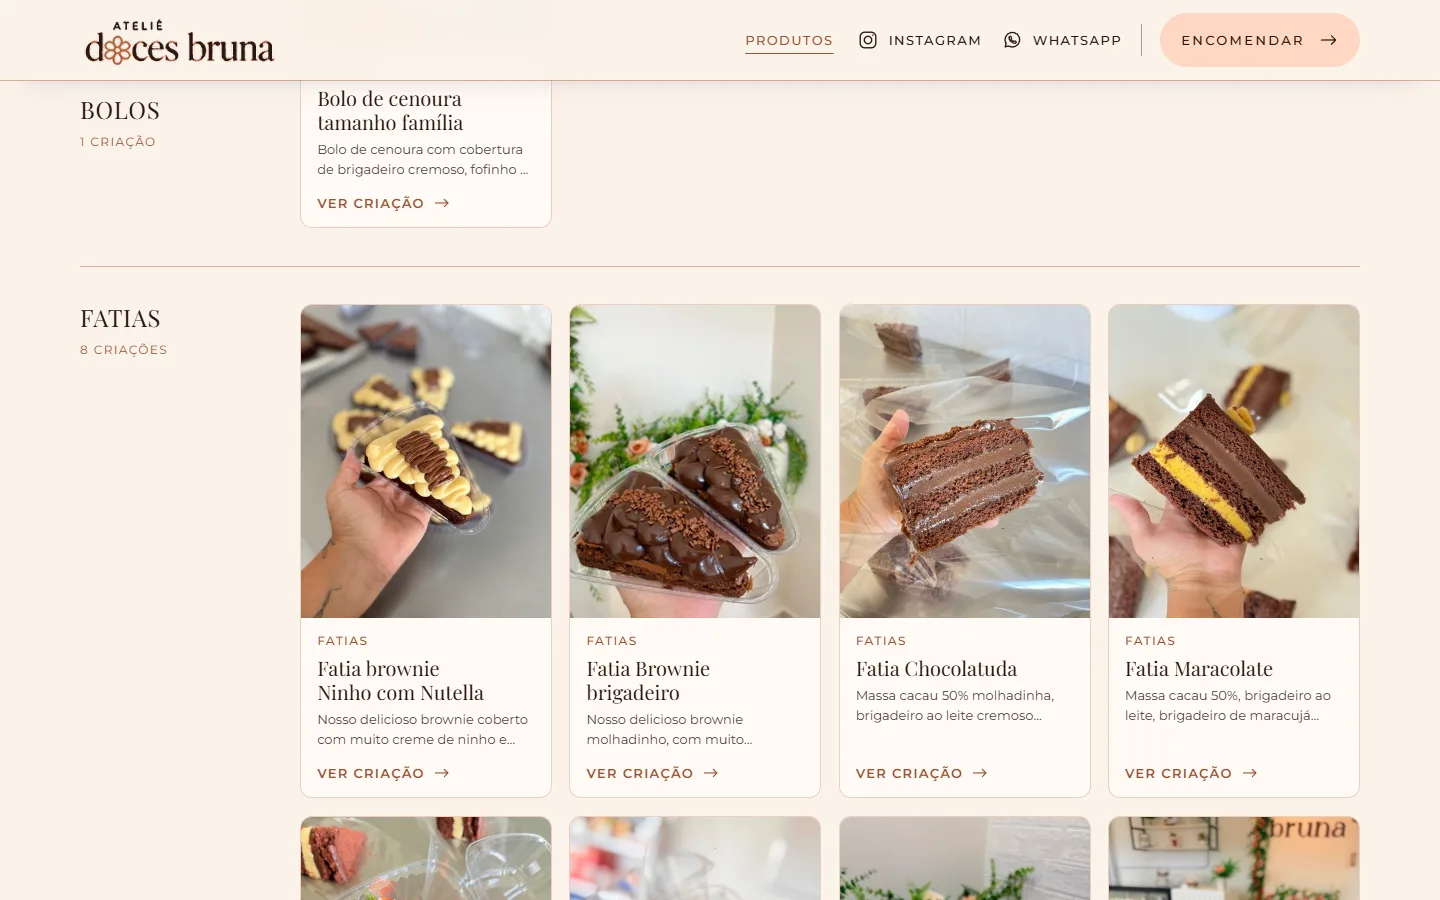
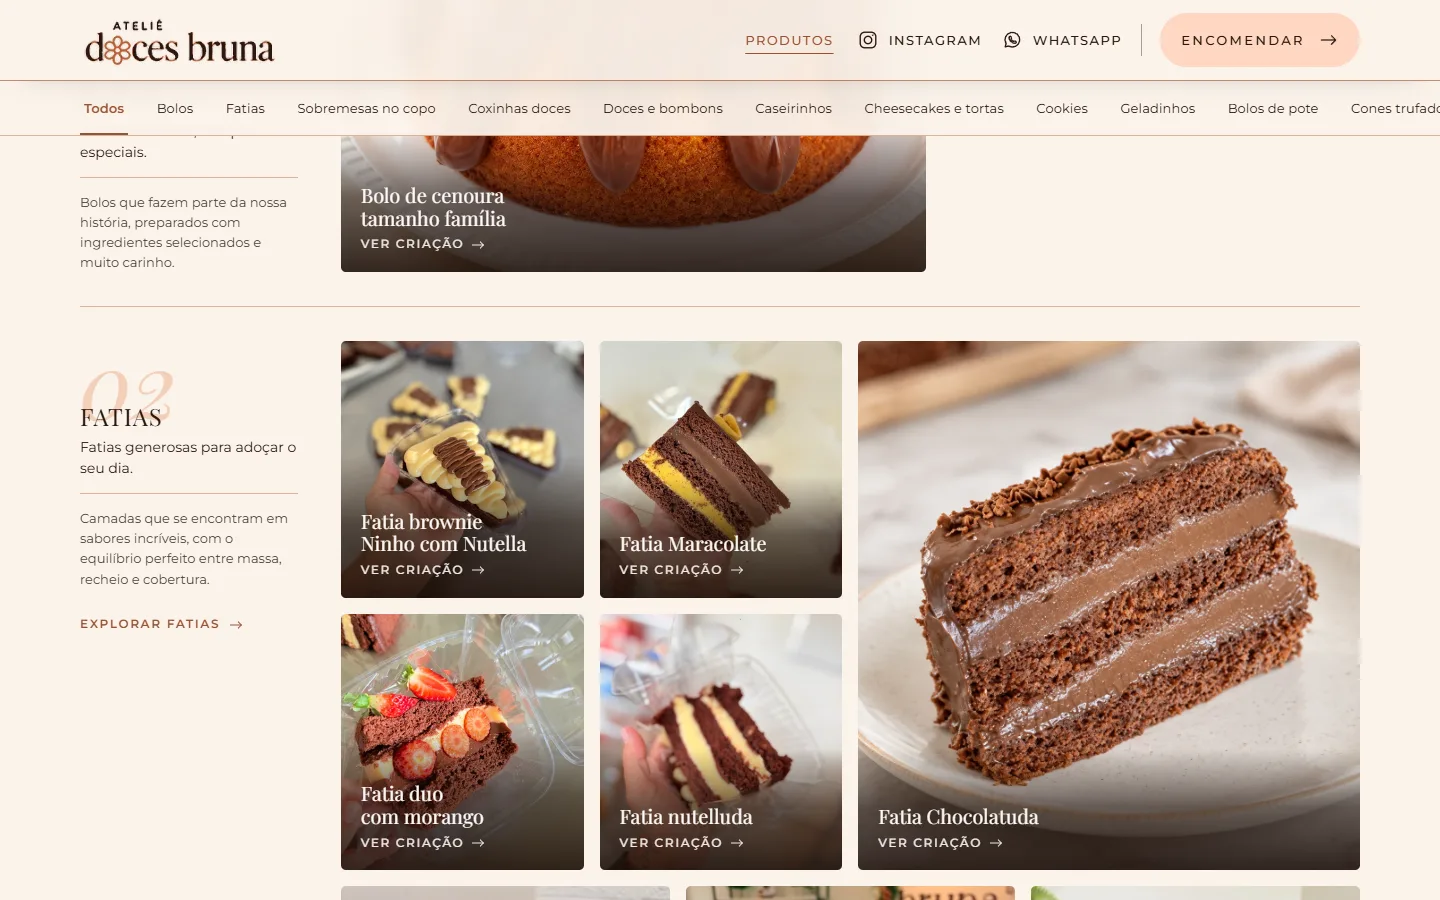
test: validate editorial portfolio experience
QA 107 checks (art direction, search/filter, modal, a11y, no-JS, reduced-motion, overflow at 7
widths, console) plus capture script, Concept 09 V2 side-by-side comparison and screenshots at
1440/1280/1024/768/430/390/360.

diff --git a/docs/qa/portfolio-gallery/README.md b/docs/qa/portfolio-gallery/README.md
@@ -1,6 +1,8 @@
 # QA: portfólio + galeria com modal
 
-`node docs/qa/portfolio-gallery/qa-portfolio.mjs` (com `npm run build && npx astro preview --port 4399`). Resultado: `qa-portfolio.json` (92 verificações) e capturas `gallery-*.webp` / `modal-*.webp` em 1440, 768 e 390.
+`node docs/qa/portfolio-gallery/qa-portfolio.mjs` (com `npm run build && npx astro preview --port 4399`). Resultado: `qa-portfolio.json` (107 verificações) e capturas `gallery-*.webp` / `modal-*.webp` em 1440, 768 e 390.
+
+Capturas da direção de arte (Concept 09 V2): `FULL=1440,1024,768,390 SECTIONS=bolos,fatias,sobremesas-no-copo node docs/qa/portfolio-gallery/capture.mjs` gera `top-<largura>.webp` (primeira dobra, 7 larguras), `sec-<capítulo>-<largura>.webp` e `page-<largura>.webp` (página inteira). `compare-1440.webp` põe o Concept aprovado (`concept-09-v2.webp`) ao lado da implementação.
 
 Larguras testadas para overflow, alvos de toque e modal: 1440, 1280, 1024, 768, 430, 390, 360.
 
